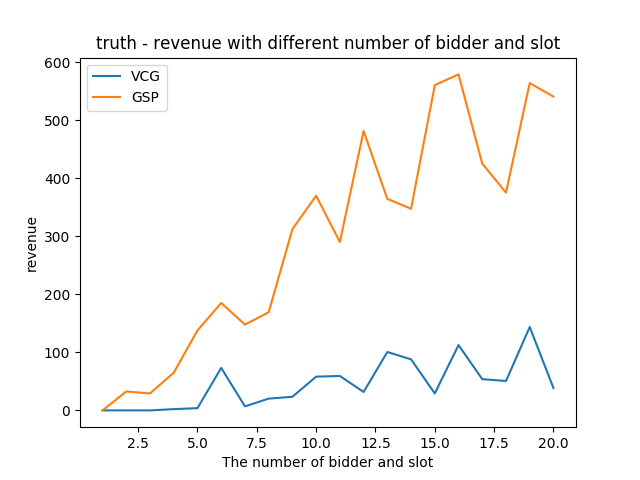
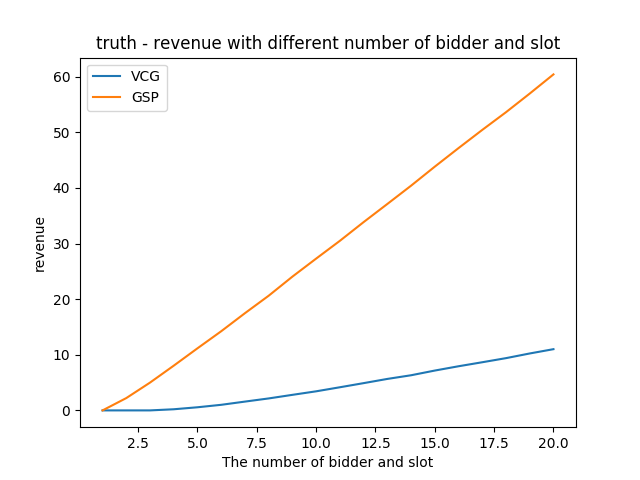
Version 7 debug

diff --git a/GSPApplication/GSPApplication/Auction.py b/GSPApplication/GSPApplication/Auction.py
@@ -19,6 +19,7 @@ class Auction:
     #SocialWelfare = 0
 
     def __init__(self, numbid, numslots, truthOrRandom):
+        self.maxValueBid = 10
         self.bidders = [] # 出价人序列,[Bidder,Bidder,Bidder]
         self.bidVec = [] # 出价向量
 
@@ -29,17 +30,18 @@ class Auction:
         self.priceBids = [0 for i in range(self.numOfBidder)]
         self.revenue = 0
         self.SocialWelfare = 0
-
-        tmpValueVec = sorted(np.random.rand(1,self.numOfBidder)[0]*100,reverse=True) # 从大到小
+        
+        # np.random.seed(seed = seedValue)
+        tmpValueVec = sorted(np.random.rand(1,self.numOfBidder)[0]*self.maxValueBid,reverse=True) # 从大到小
+        tmpBidVec = np.random.rand(1,self.numOfBidder)[0]*self.maxValueBid
         self.valueVec = tmpValueVec
+        if truthOrRandom == 'truth':
+            tmpBidVec = tmpValueVec
+        self.bidVec = tmpBidVec
+        
         for i in range(self.numOfBidder):
-            b = np.random.rand(1,1)[0][0]*100
-            if truthOrRandom == 'truth':
-                b = tmpValueVec[i]
-            self.bidVec.append(b)
-            self.bidders.append(Bidder(i,tmpValueVec[i],b,truthOrRandom))
+            self.bidders.append(Bidder(i,tmpValueVec[i],tmpBidVec[i],truthOrRandom))
         self.slots = Slots(self.numOfSlots,self.numOfBidder)
-
   
     def clearData(self):
         self.numOfBidder = int(numbid)
@@ -51,12 +53,12 @@ class Auction:
         self.revenue = 0
         self.SocialWelfare = 0
 
-        tmpValueVec = sorted(np.random.rand(1,self.numOfBidder)[0]*100,reverse=True) # 从大到小
+        tmpValueVec = sorted(np.random.rand(1,self.numOfBidder)[0]*self.maxValueBid,reverse=True) # 从大到小
         self.valueVec = tmpValueVec
         self.bidders.clear()
         
         for i in range(self.numOfBidder):
-            b = np.random.rand(1,1)[0][0]*100
+            b = np.random.rand(1,1)[0][0]*self.maxValueBid
             if truthOrRandom == 'truth':
                 b = tmpValueVec[i]
             self.bidVec.append(b)

diff --git a/GSPApplication/GSPApplication/DriveAuction.py b/GSPApplication/GSPApplication/DriveAuction.py
@@ -16,7 +16,7 @@ from Slots import Slots
 def runAndPrint(numbid, numitem, truthOrRandom, repeatTimes):
     #str = "The number of Bidders is " + str(numbid) + ", and the number of Items
     #is " + str(numitem)
-    auction = Auction(numbid, numitem, truthOrRandom)
+    # auction = Auction(numbid, numitem, truthOrRandom, seedValue)
     '''
     print("The bidderName and their true value:")
     for b in auction.bidders:
@@ -29,6 +29,7 @@ def runAndPrint(numbid, numitem, truthOrRandom, repeatTimes):
     SWGSPseq = []
     RGSPseq = []
     for i in range(repeatTimes):
+        auction = Auction(numbid, numitem, truthOrRandom)
         auction.executeVCG()
         swVCG = auction.SocialWelfare
         rVCG = auction.revenue
@@ -65,6 +66,8 @@ def runAndPrint(numbid, numitem, truthOrRandom, repeatTimes):
     RVCG = np.mean(RVCGseq)
     SWGSP = np.mean(SWGSPseq) 
     RGSP = np.mean(RGSPseq)
+    print("seq: RVCG[0] = " + str(RVCGseq[0]) + ", RVCG[n-1] = " + str(RVCGseq[repeatTimes-1]))
+    print("seq: RGSP[0] = " + str(RGSPseq[0]) + ", RGSP[n-1] = " + str(RGSPseq[repeatTimes-1]))
     return [SWVCG, RVCG, SWGSP, RGSP]
 
 if __name__ == '__main__':
